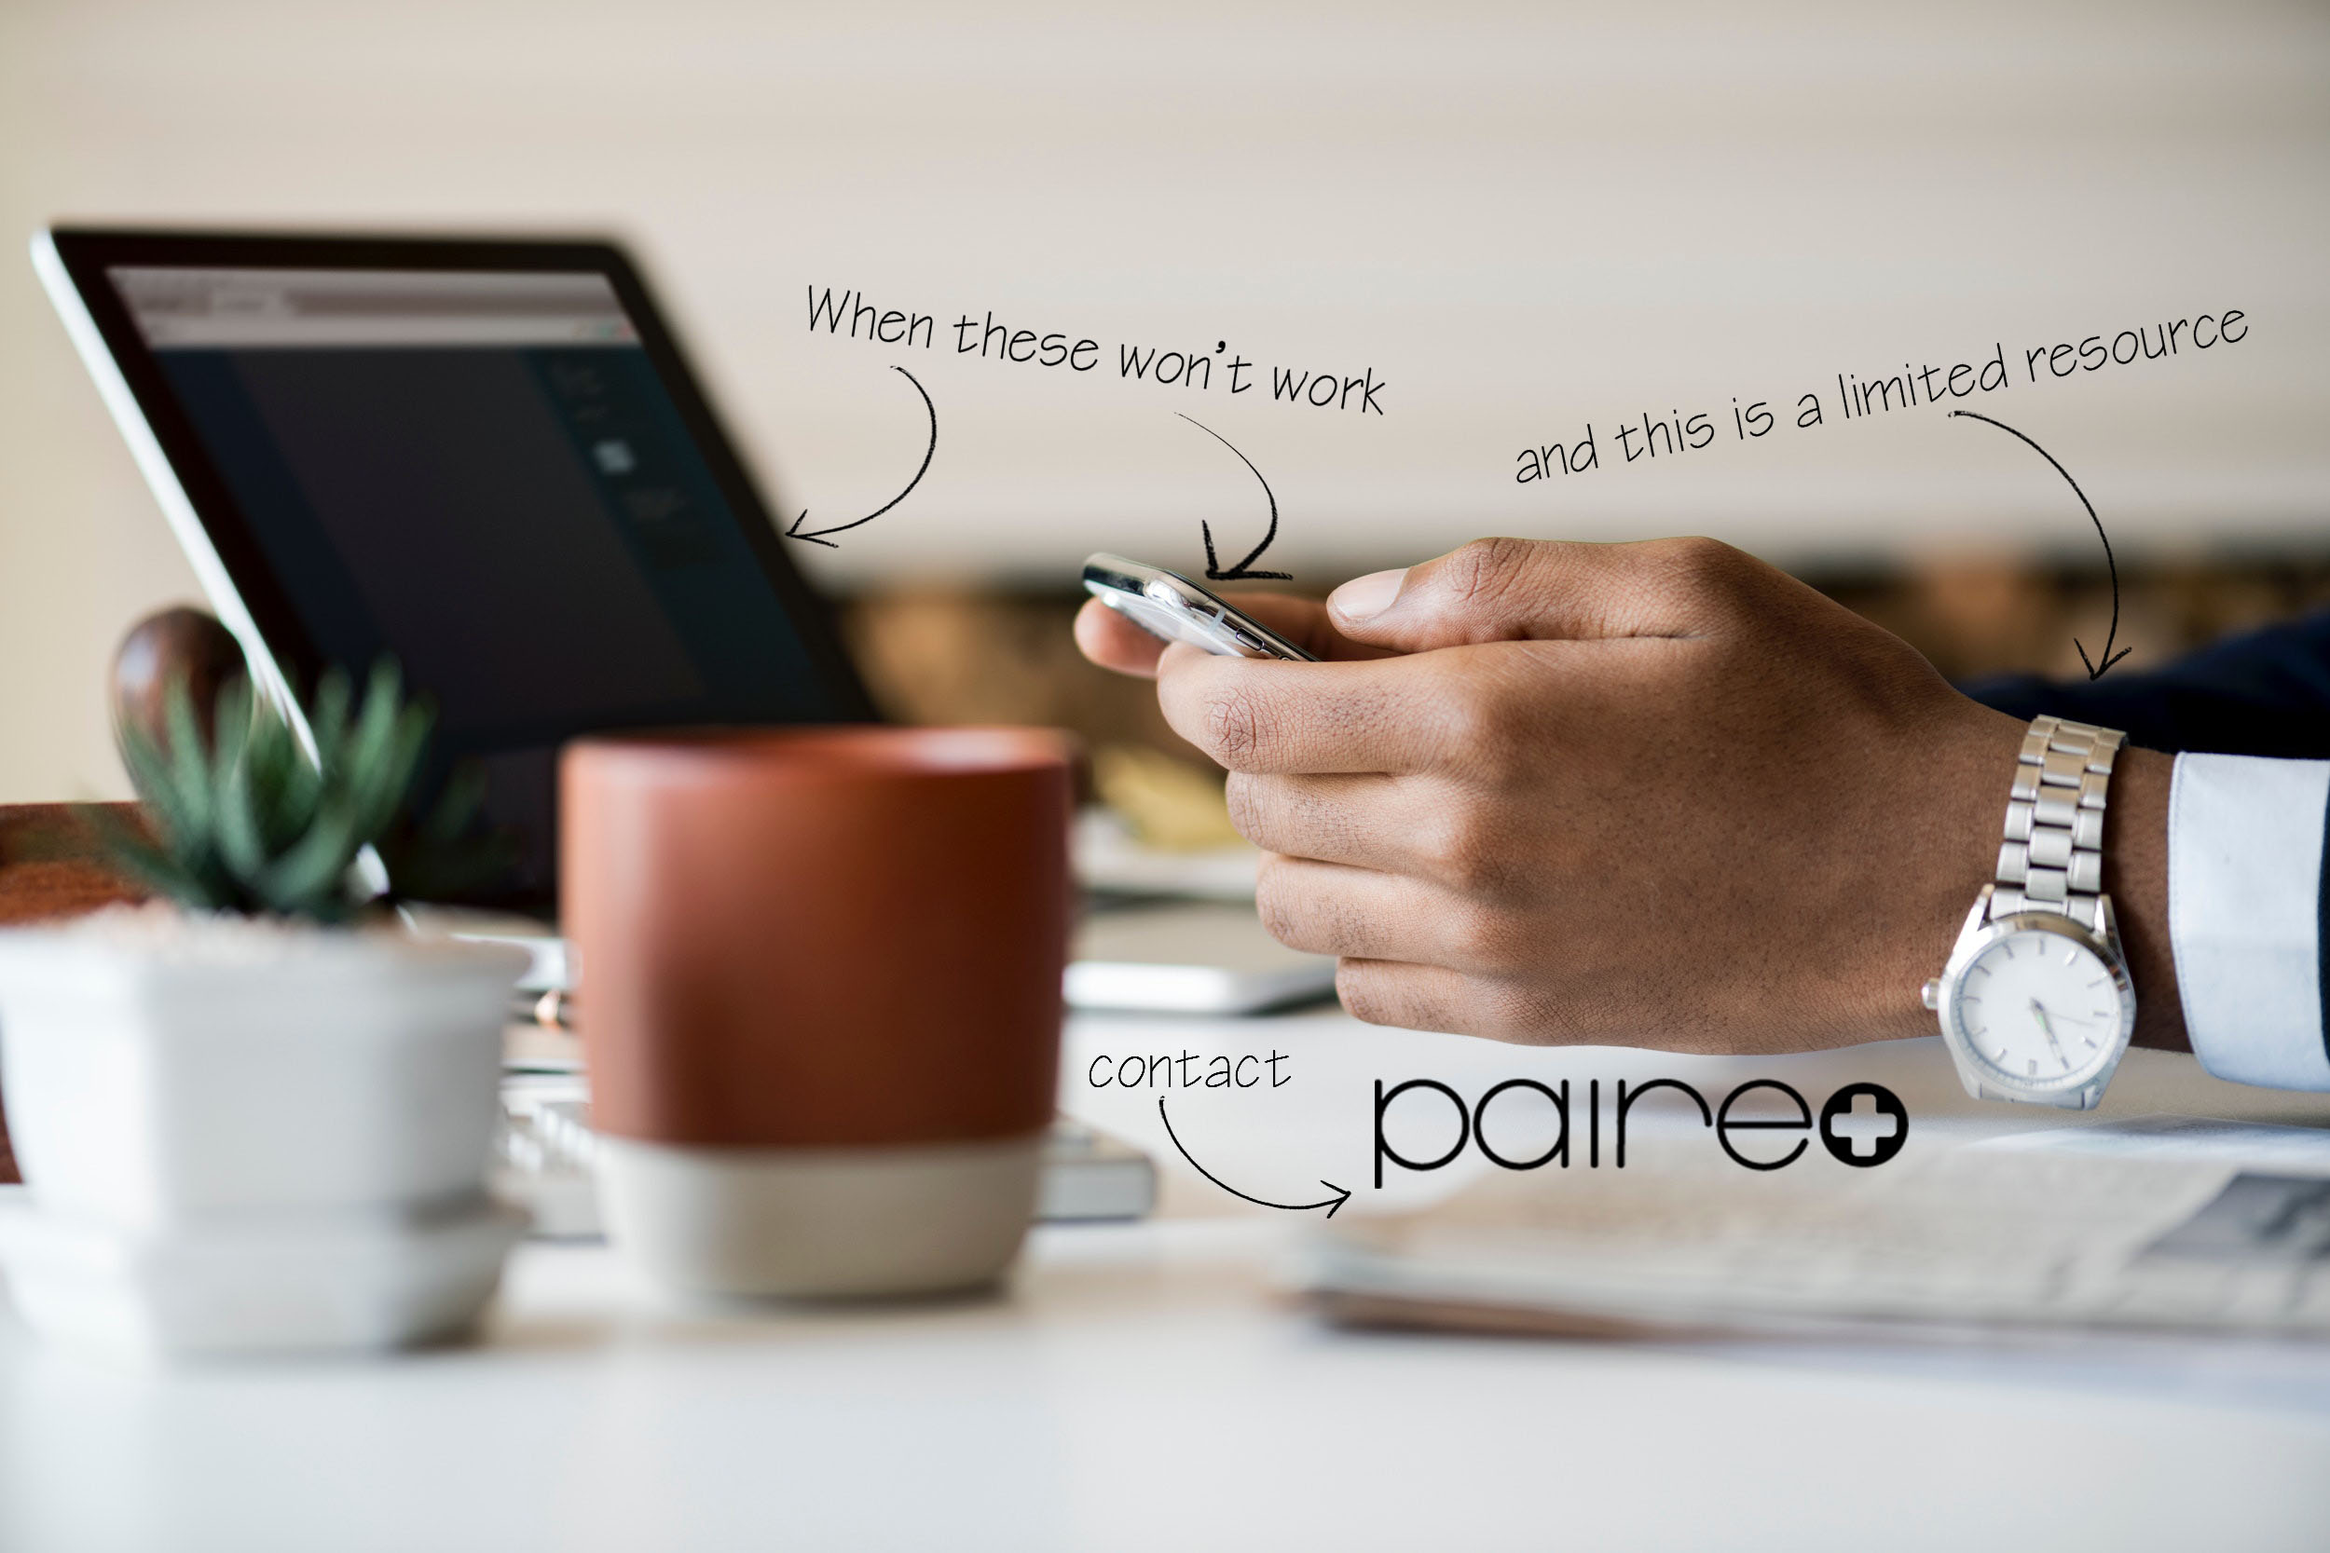
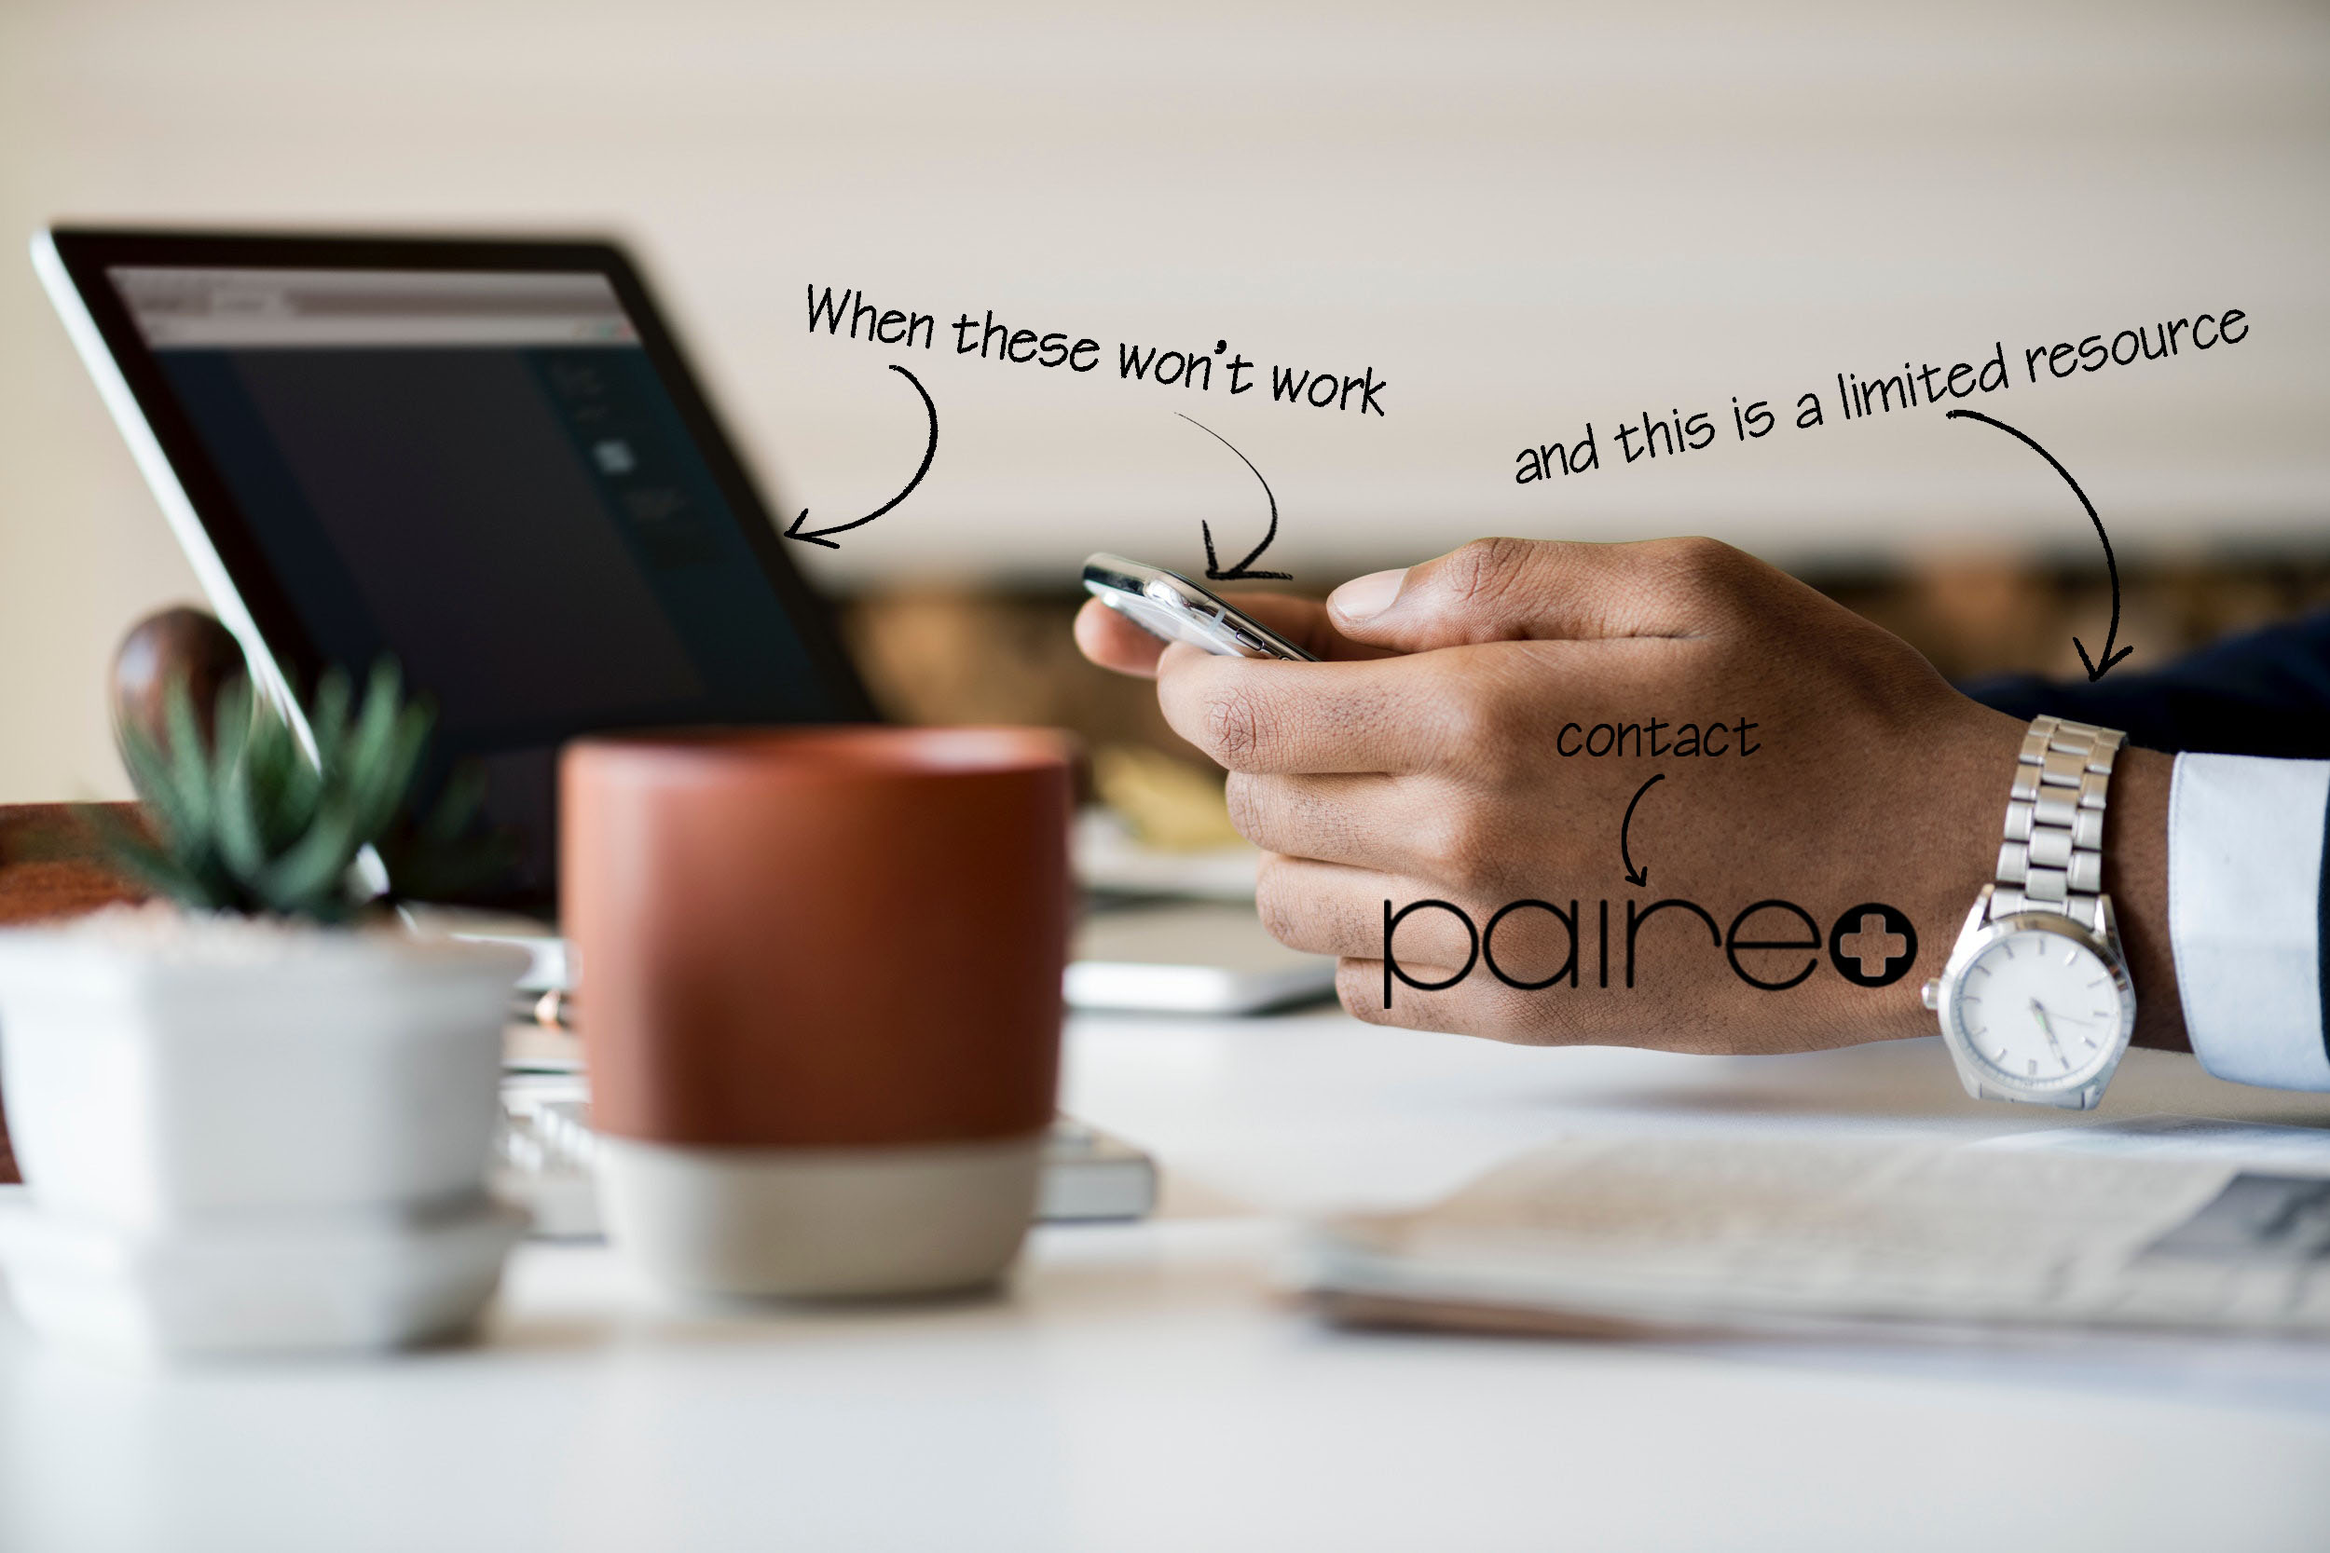
Add files via upload

diff --git a/css/singlePageTemplate.css b/css/singlePageTemplate.css
@@ -74,7 +74,7 @@ ul li:hover a {
 }
 /* Hero Section */
 .hero {
-	background-image: url(../images/../images/adult-african-analog-watch-935863-3.jpg);
+	background-image: url(../images/../images/adult-african-analog-watch-935863-2.jpg);
 	background-size: 100%;
 	background-repeat: no-repeat;
 	background-position: center;
